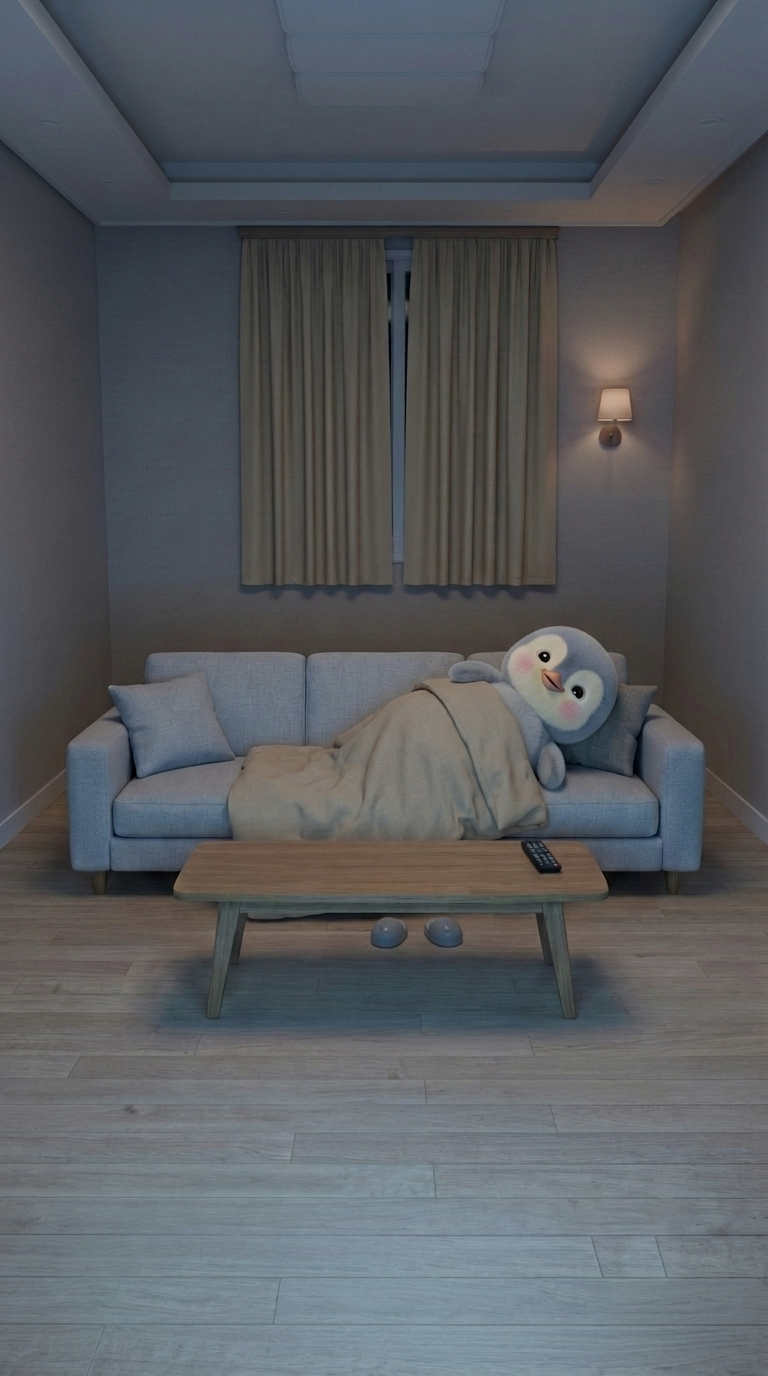
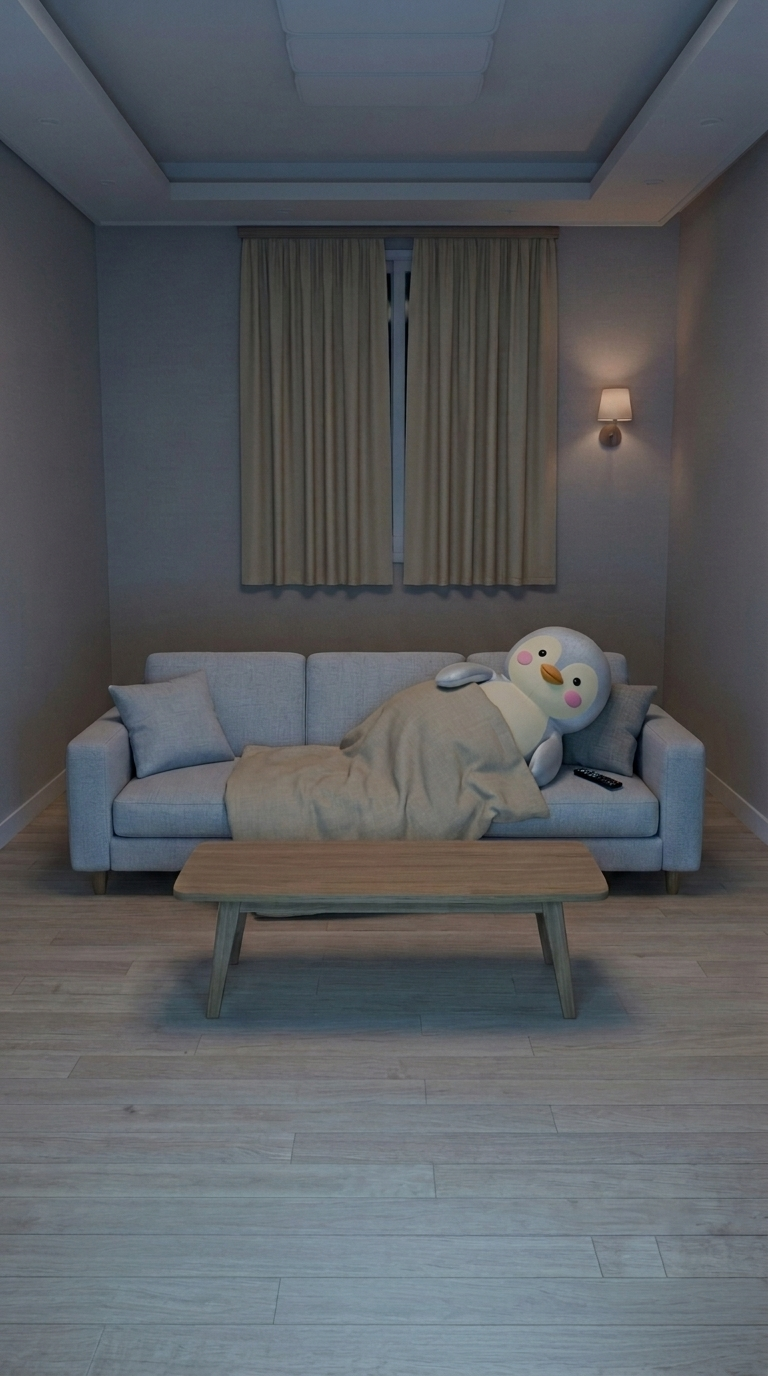
ep02 이미지 체인 1차: B2 v2·1s·1e·2s·2e·3s·4s·5s·6s 통과, 4e·6e 불합격(재시도 대기)
Claude-Session: https://claude.ai/code/session_01SQGDxQ7jeAcwC7nJPg1YUA

diff --git a/docs/ep02/03_이미지_프롬프트_v2.md b/docs/ep02/03_이미지_프롬프트_v2.md
@@ -76,7 +76,7 @@ The final image must be vertical 9:16.
 The output image must be a VERTICAL 9:16 PORTRAIT image - tall, not square, not landscape.
 Edit the FIRST attached image. Keep EVERYTHING exactly the same: the same camera (the viewpoint of the television, 3 m in front of the sofa, 1.1 m high, level), the same three-seat light grey fabric sofa with its two square cushions, the same EMPTY low wooden coffee table, the same curtained window and warm wall lamp, the same coffered ceiling, wood floor and the same soft bluish TV glow from the camera side. Change nothing in the room.
 The SECOND attached image shows the two penguins sitting on this same sofa; use it ONLY as the size reference - the penguin is that small compared with the sofa.
-Add ONE plush penguin, Pang Mi-sun, LYING DOWN on the sofa, watching television (the television is where the camera is). She lies on her back along the seat cushions with her HEAD on the RIGHT side, resting on one of the square cushions pushed against the RIGHT armrest, and her feet pointing to the LEFT. Her body is turned slightly toward the camera so her whole face is clearly visible, looking straight at the camera with a wide happy smile, beak closed. Lying down she covers ONLY THE RIGHT HALF of the sofa: her feet reach about the middle seat cushion, and the LEFT seat cushion stays completely EMPTY with the sofa fabric visible. A beige duvet, the same beige as the duvet in the attached bedroom reference, COVERS her from the chest down to her feet, its near edge hanging a little over the front of the seat; her head, her face and her two short rounded flipper wings resting on top of the duvet stay visible. The second square cushion stays against the backrest behind her. A plain black TV remote with no readable text lies on the seat cushion right beside her wing on the side nearer the camera, near the front edge of the seat, at the height of her belly, NOT covered by the duvet; it stays on the sofa, not in her wing.
+Add ONE plush penguin, Pang Mi-sun, LYING DOWN on the sofa, watching television (the television is where the camera is). She lies on her back along the seat cushions with her HEAD on the RIGHT side, resting on one of the square cushions pushed against the RIGHT armrest, and her feet pointing to the LEFT. Her body is turned slightly toward the camera so her whole face is clearly visible, looking straight at the camera with a wide happy smile, beak closed. Lying down she covers ONLY THE RIGHT HALF of the sofa: her feet reach about the middle seat cushion, and the LEFT seat cushion stays completely EMPTY with the sofa fabric visible. A beige duvet, the same beige as the duvet in the attached bedroom reference, COVERS her from the chest down to her feet, its near edge hanging a little over the front of the seat; her head, her face and her two short rounded flipper wings resting on top of the duvet stay visible. Her feet stay UNDER the duvet at the LEFT end of her body and are not visible; nothing of her hangs over the front edge of the sofa. Both short rounded flipper wings rest ON TOP of the duvet near her chest, clearly visible. The second square cushion stays against the backrest behind her. A plain black TV remote with no readable text lies on the seat cushion right beside her wing on the side nearer the camera, near the front edge of the seat, at the height of her belly, NOT covered by the duvet; it stays on the sofa, not in her wing.
 Pang Mi-sun: a small plush penguin, light silver-grey head and back, no tuft, pink blush on both cheeks, cream-white face patch and soft light-grey belly, round black eyes, small short bright ORANGE triangular beak, short rounded fingerless flipper wings, small smooth grey feet with three soft toe bumps (under the duvet). The soft bluish TV light falls on her face.
 Keep all important action - her face, her wings and the remote - inside the MIDDLE 40% of the frame's height; the top and bottom of the frame may be plain ceiling and floor.
 She keeps the EXACT plush look of the attached references: short velvet fur with visible soft fibers, matte fluffy surface, NOT smooth, NOT plastic, NOT vinyl, NOT glossy. Only the room, the duvet and the remote are realistic. No other character, no people, no television visible, no text, no reflections, no other objects.
@@ -84,6 +84,10 @@ The final image must be vertical 9:16.
 ```
 확인: 머리 오른쪽·발 왼쪽, **왼쪽 좌석 비움**(11컷에서 창수가 앉는 자리), 이불이 가슴~발·날개는 위에 보임, 리모컨 날개 옆 좌면·이불에 안 덮임, 탁자 비움, 볼터치, 털 결, 얼굴·리모컨이 세로 가운데 40% 안.
 위험: 다리를 사람처럼 늘이거나 리모컨을 손에 들면 재생성 권장.
+
+**B2 v1 불합격 (2026-10-07)**: Pro 194원. 통과: 머리 오른쪽·왼쪽 좌석 비움·이불·리모컨 좌면·얼굴·크기·방. 실패: 발 2개가 이불 밖으로 나와 소파 앞 가장자리 아래로 늘어짐(탁자 밑에 보임), 날개가 이불 위에 안 보임. 원본 `assets/spaces/original/living_L1_night_misun_lying_v1_feet.png`. → 프롬프트에 "발은 이불 안 왼쪽 끝, 소파 앞으로 아무것도 안 나옴" + "날개는 이불 위에 보임" 추가(위 본문에 반영), 사용자 "다시".
+
+**B2 v2 ✅ 통과 (2026-10-07)**: Pro 194원(누적 1,770원). 발 이불 안, 날개 이불 위에 보임, 리모컨 날개 옆 좌면, 왼쪽 좌석 비움, 머리 오른쪽, 02 활짝, 방 동일. 저장 `assets/spaces/living_L1_night_misun_lying.png`.
 
 ---
 
@@ -308,3 +312,24 @@ The final image must be vertical 9:16.
 ---
 
 ## 6. 첫 요청서 = B1 (Lite 47원). "진행" 후 호출. B1 통과 → B2는 사용자 앱 → 1s·1e 앱 → 3s API 순.
+
+## 7. 진행 기록 (2026-10-07, 사용자 "전부 이미지 만들어봐" → 체인 실행)
+| # | 결과 | 비용 | 메모 |
+|---|---|---|---|
+| B1 | ✅ | 47 | Lite |
+| B2 | v1 ❌(발 이불 밖) → v2 ✅ | 194+194 | Pro. 발 이불 안·날개 이불 위 문장 추가로 통과 |
+| 1s | ✅ | 95 | 창수 왼쪽 가장자리 측면 우향, 컵 없음. 소파 앞(탁자 왼쪽) 바닥. 머리 등받이 위 |
+| 1e | ✅ | 95 | 창수 왼쪽 좌석 앞에 정면 섬 |
+| 2s | ✅ | 95 | 미순 얼굴 확대, 이불·날개 하단, 뒤 등받이 |
+| 2e | ✅(후처리) | 95 | 고개 왼쪽·부리 살짝. 이불 위에 작은 날개 모양 자국 생성 → cv2 inpaint로 제거(원본 `02/end_v1_original.png`). 05c "후처리는 배경에만" 범위 |
+| 3s | ✅(주의) | 95 | 얼굴 컷이 아니라 **상반신 컷**으로 나옴(날개까지). 01 기본·부리·털뭉치 통과. "응." 리액션에는 오히려 자연스러워 채택 |
+| 4s | ✅ | 95 | 1s + 물컵(날개 앞) |
+| 4e | ❌ | 95 | 컵이 미순 날개에 있으나 **머리 위로 높이 치켜듦**(등받이 상단 높이). 창수는 소파 앞에서 기울임 OK. 원본 `original/04_end_v1_glass_high.png` |
+| 5s | ✅ | 94 | 1e + 컵 탁자 위 |
+| 6s | ✅ | 95 | 4s의 컵 → 탁자, 창수 베개 양 날개 |
+| 6e | ❌ | 95 | **창수가 2명**(왼쪽 끝 큰 창수 + 탁자 앞 작은 창수). 베개 머리 밑·컵은 OK. 원본 `original/06_end_v1_two_changsu.png` |
+누적 2,719원. 4e·6e가 막혀 7s·9s 이후 전부 대기.
+
+재시도 문장(승인 대기)
+- 4e: `She holds the glass LOW, just above the duvet at her chest level, well BELOW the top of the sofa backrest; it is not raised above her head.`
+- 6e: `There is EXACTLY ONE Chang-su in the picture. He is NOT at the left end any more - the left seat cushion is empty with nothing in front of it. He stands only at the RIGHT END beside the right armrest.` + 모델 Pro.
